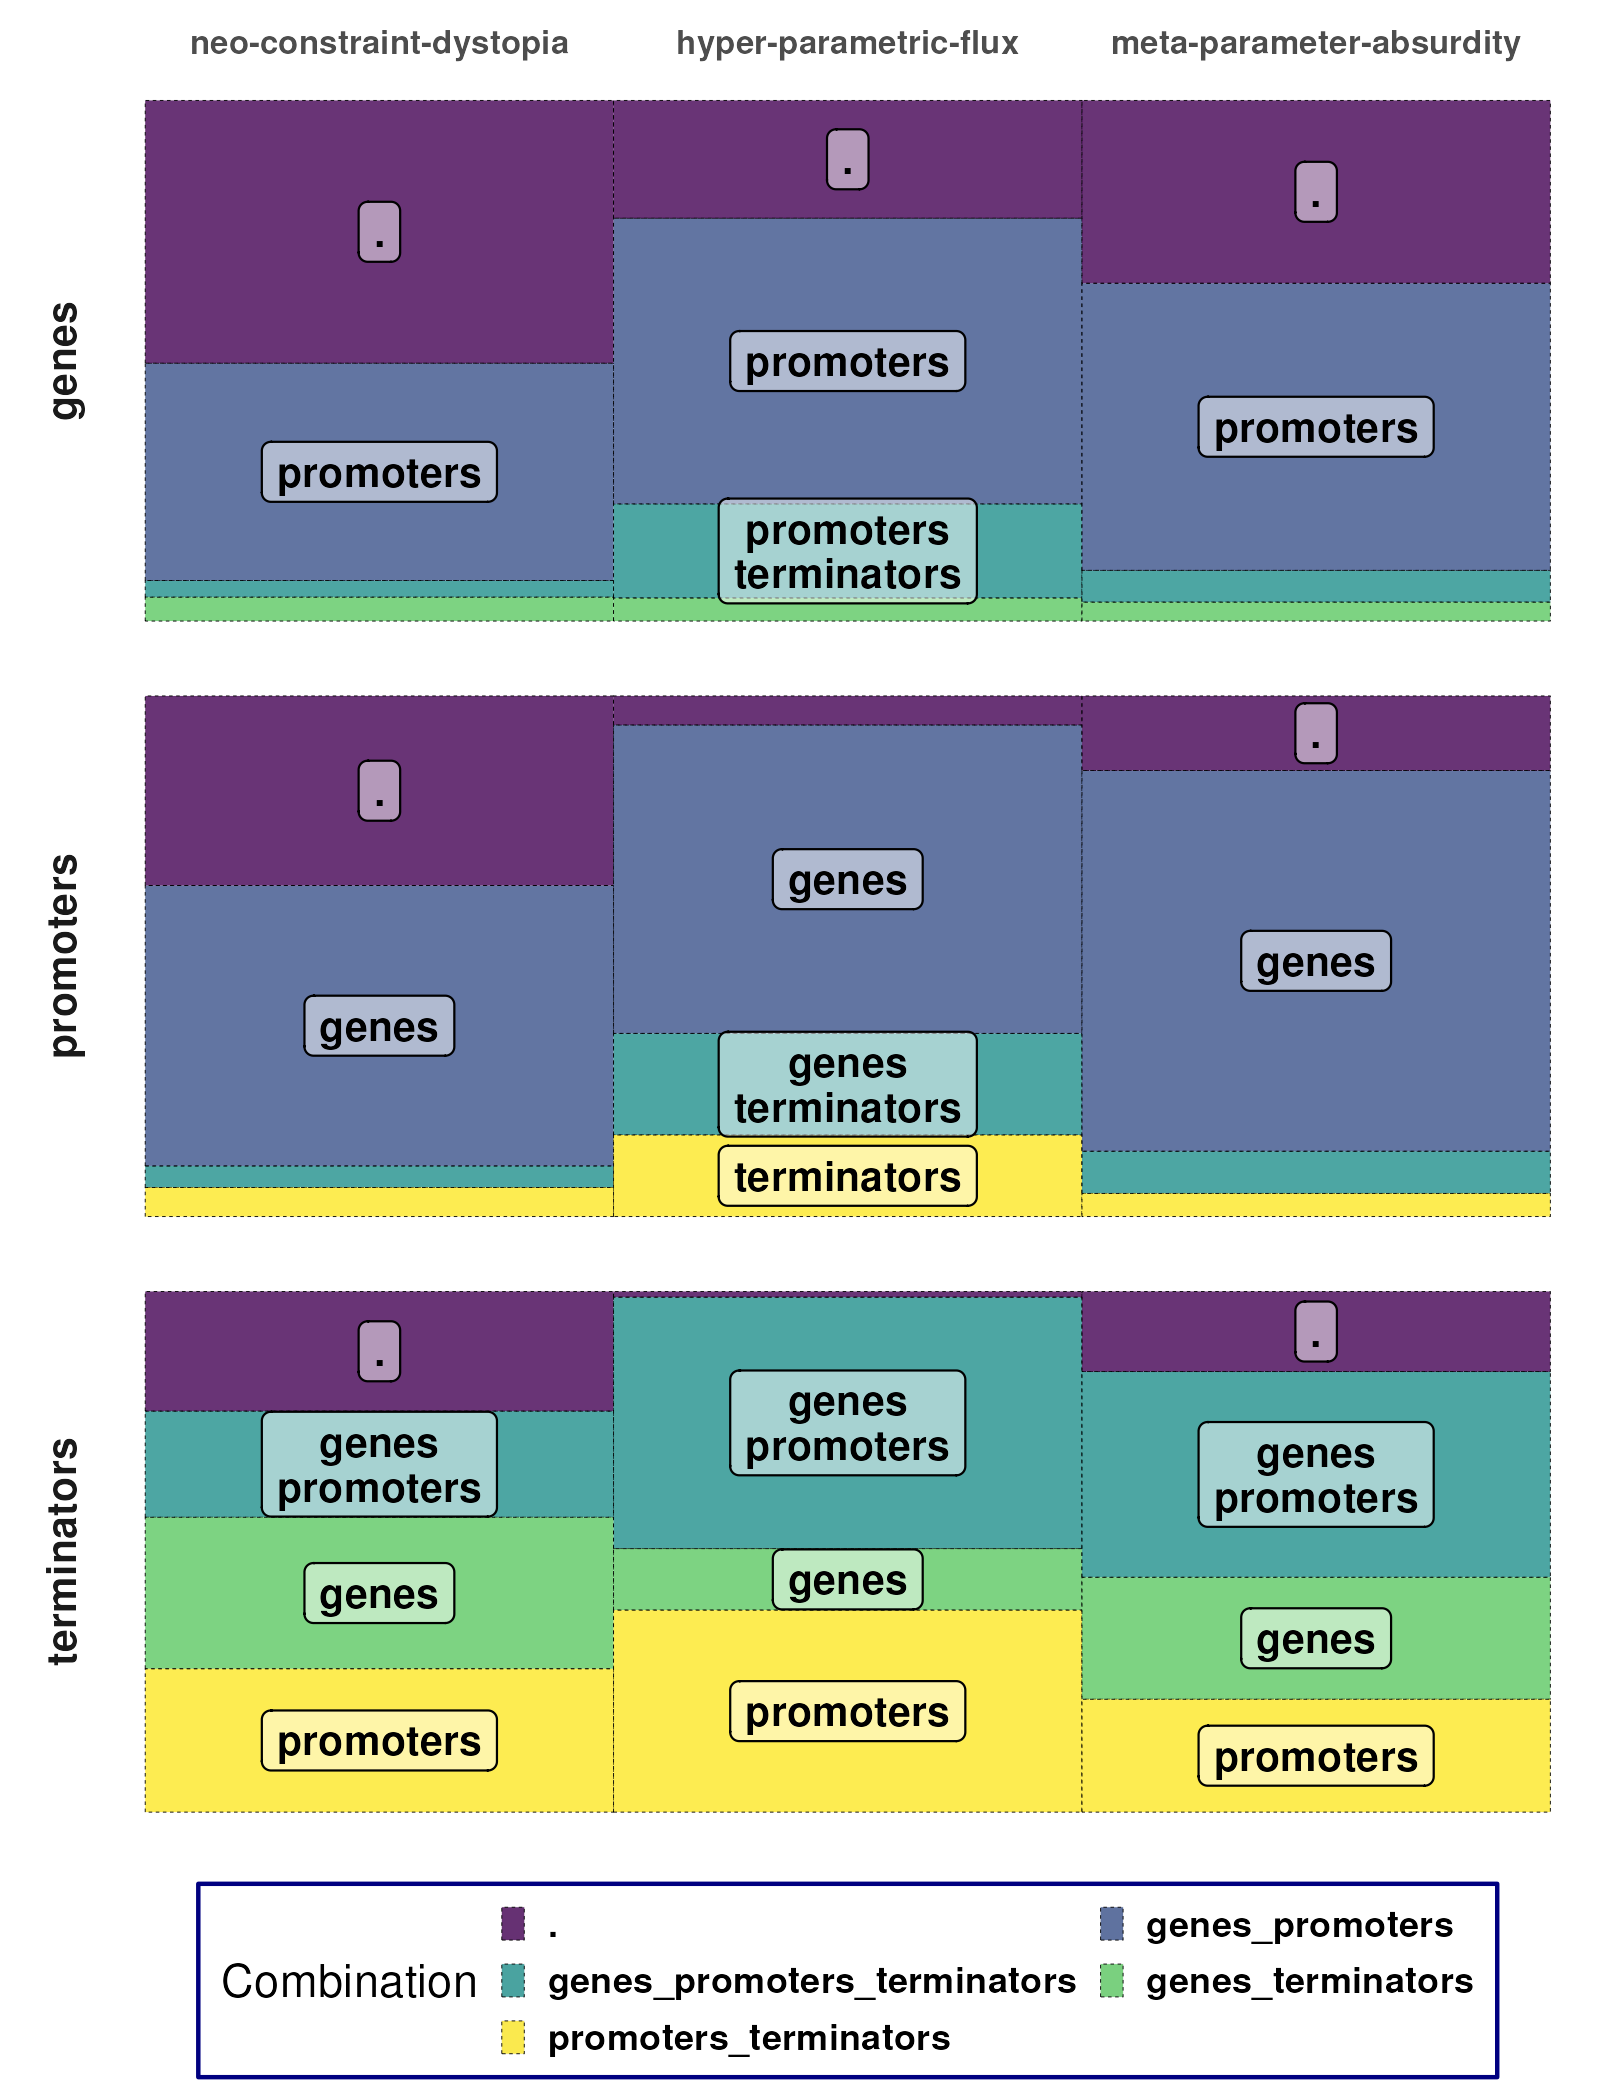
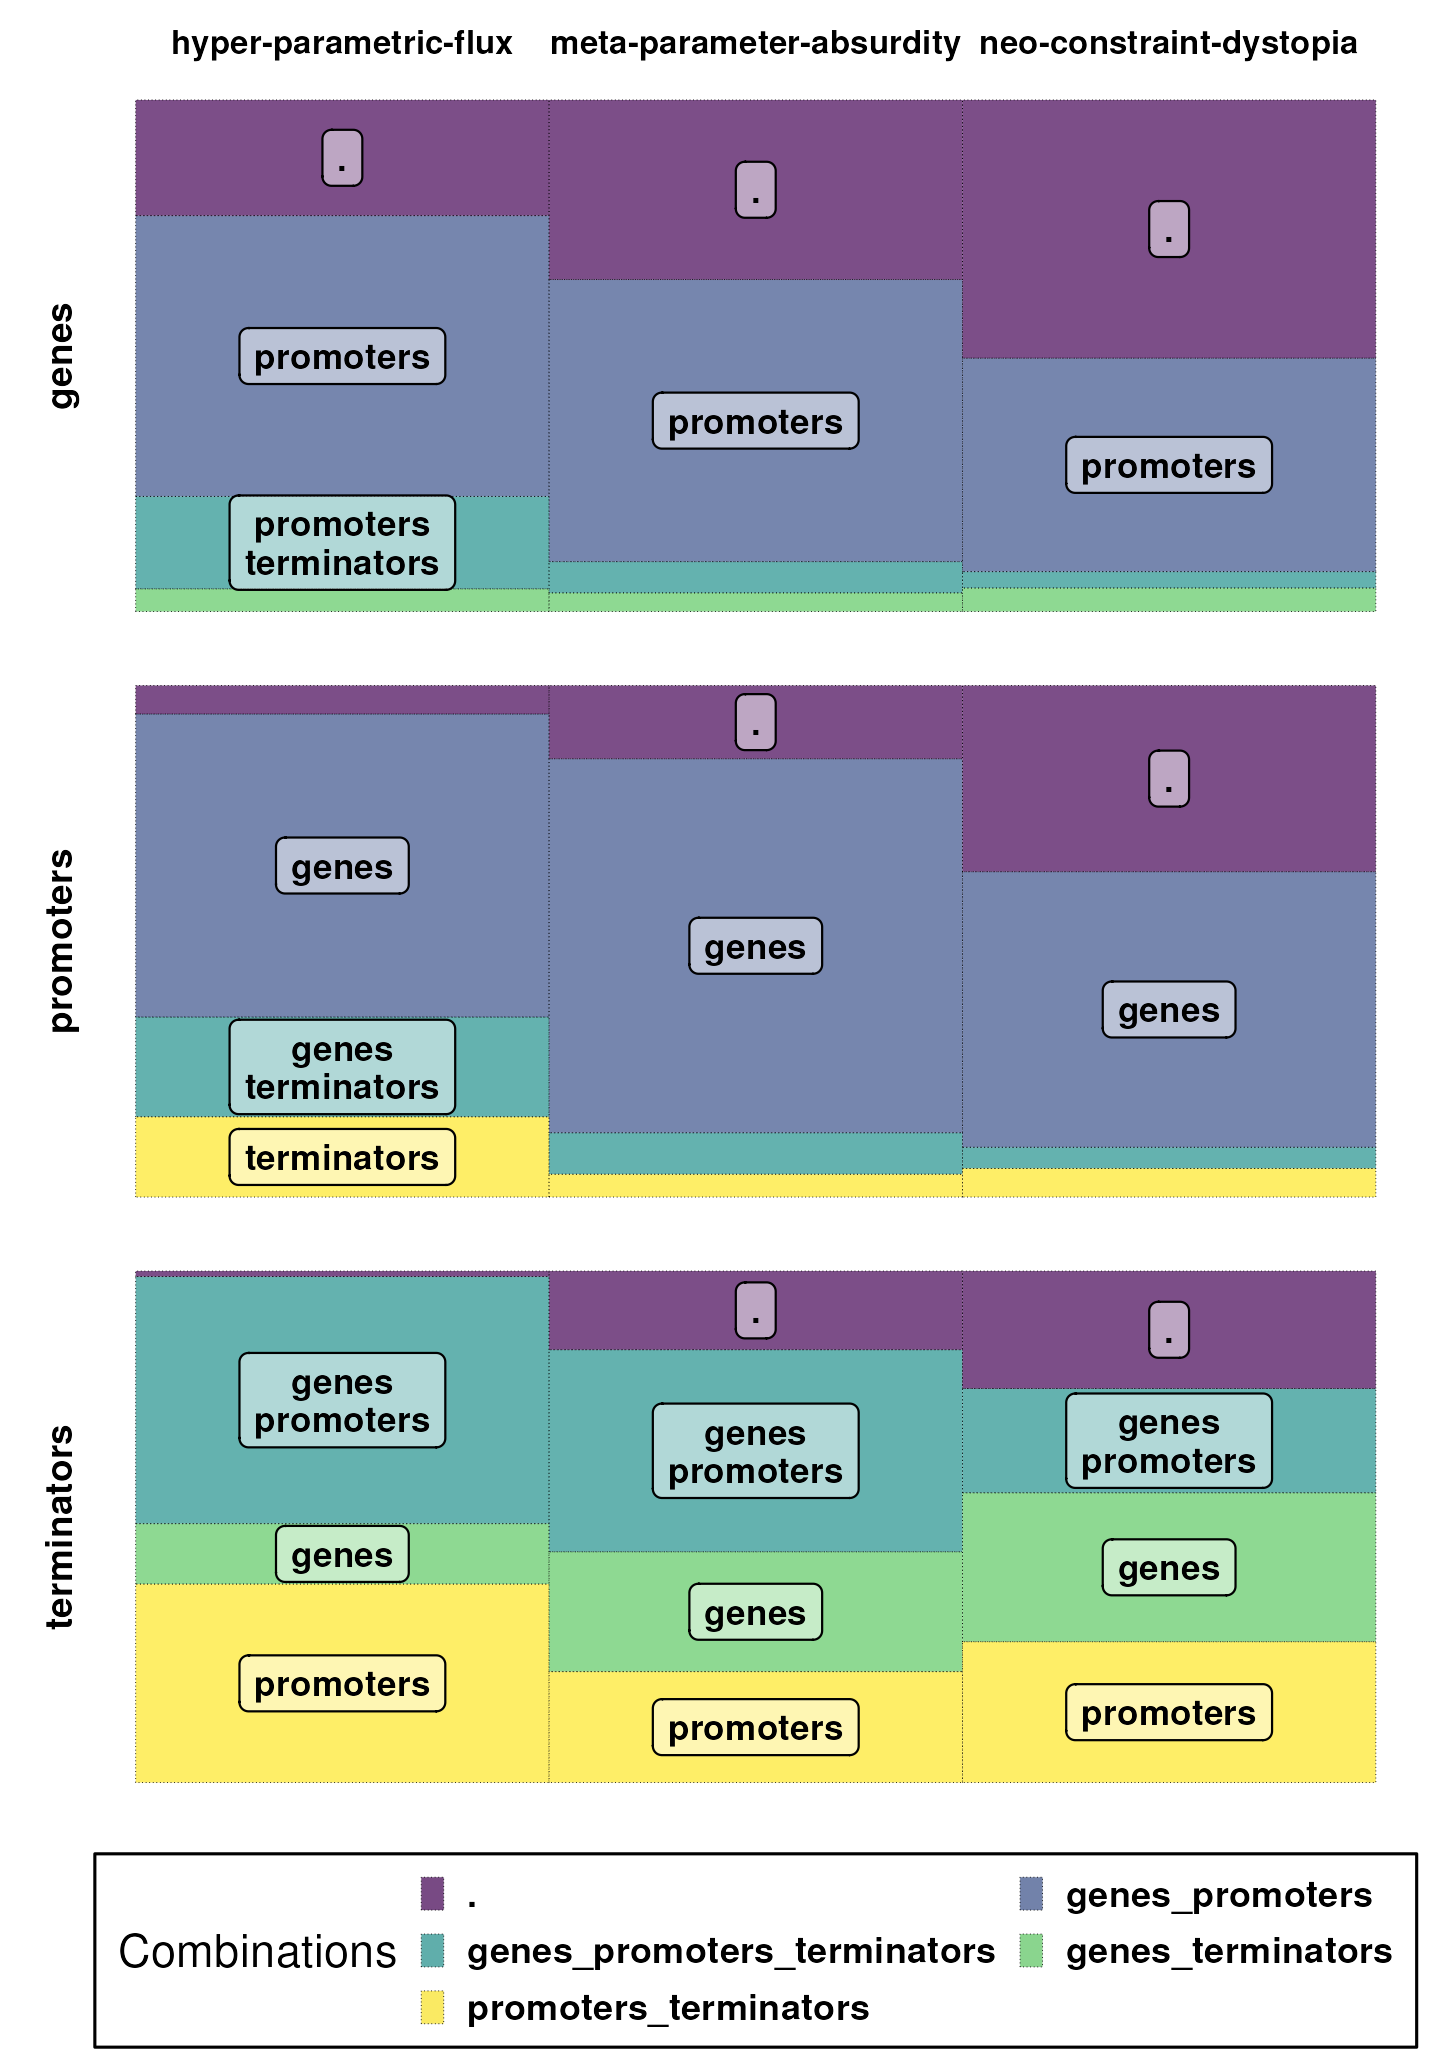
Fix order

diff --git a/README.md b/README.md
@@ -40,5 +40,5 @@ nextflow main.nf -entry plot
 - Example data is from RegulonDB v 10.5 (Alberto Santos-Zavaleta et al. 2019).
 
 <p align="center">
-<img src="example/collected_barplot.png">
+<img src="example/collected_barplot.png" width="400">
 </p>
